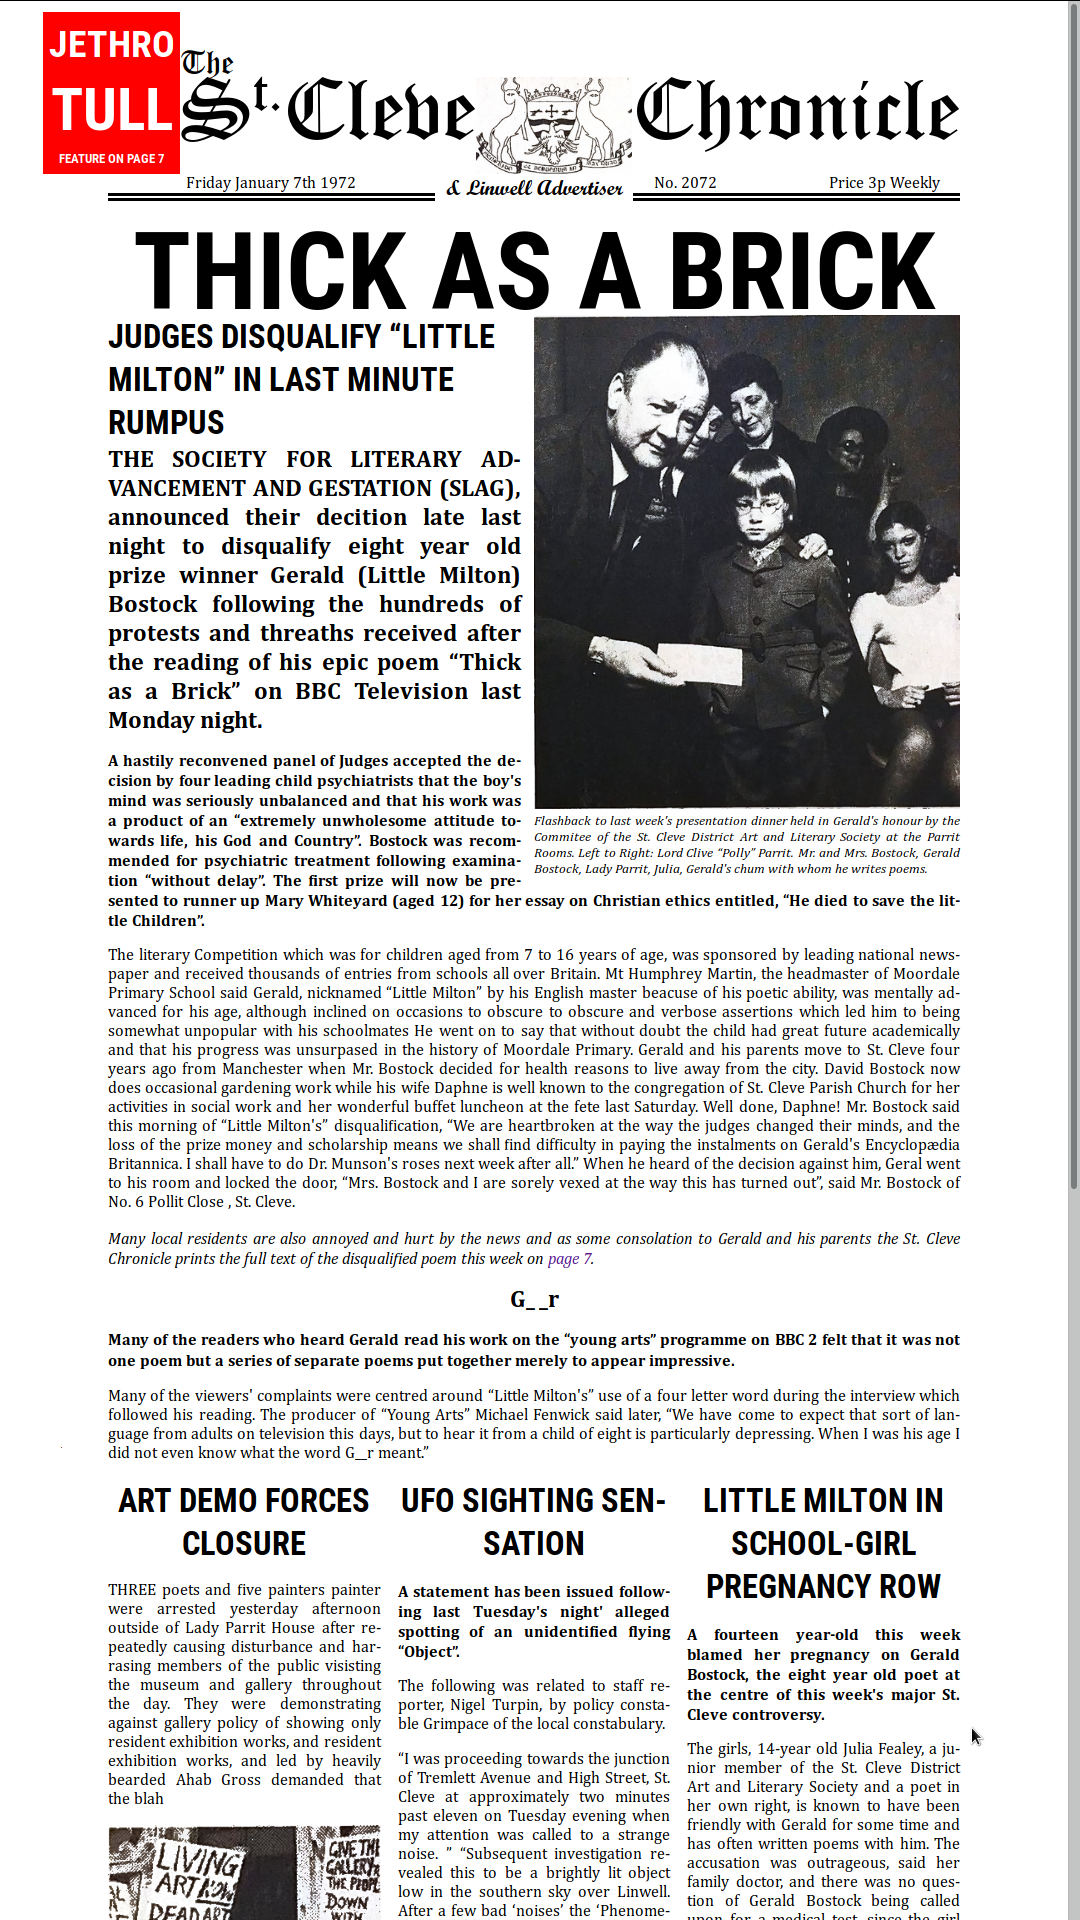
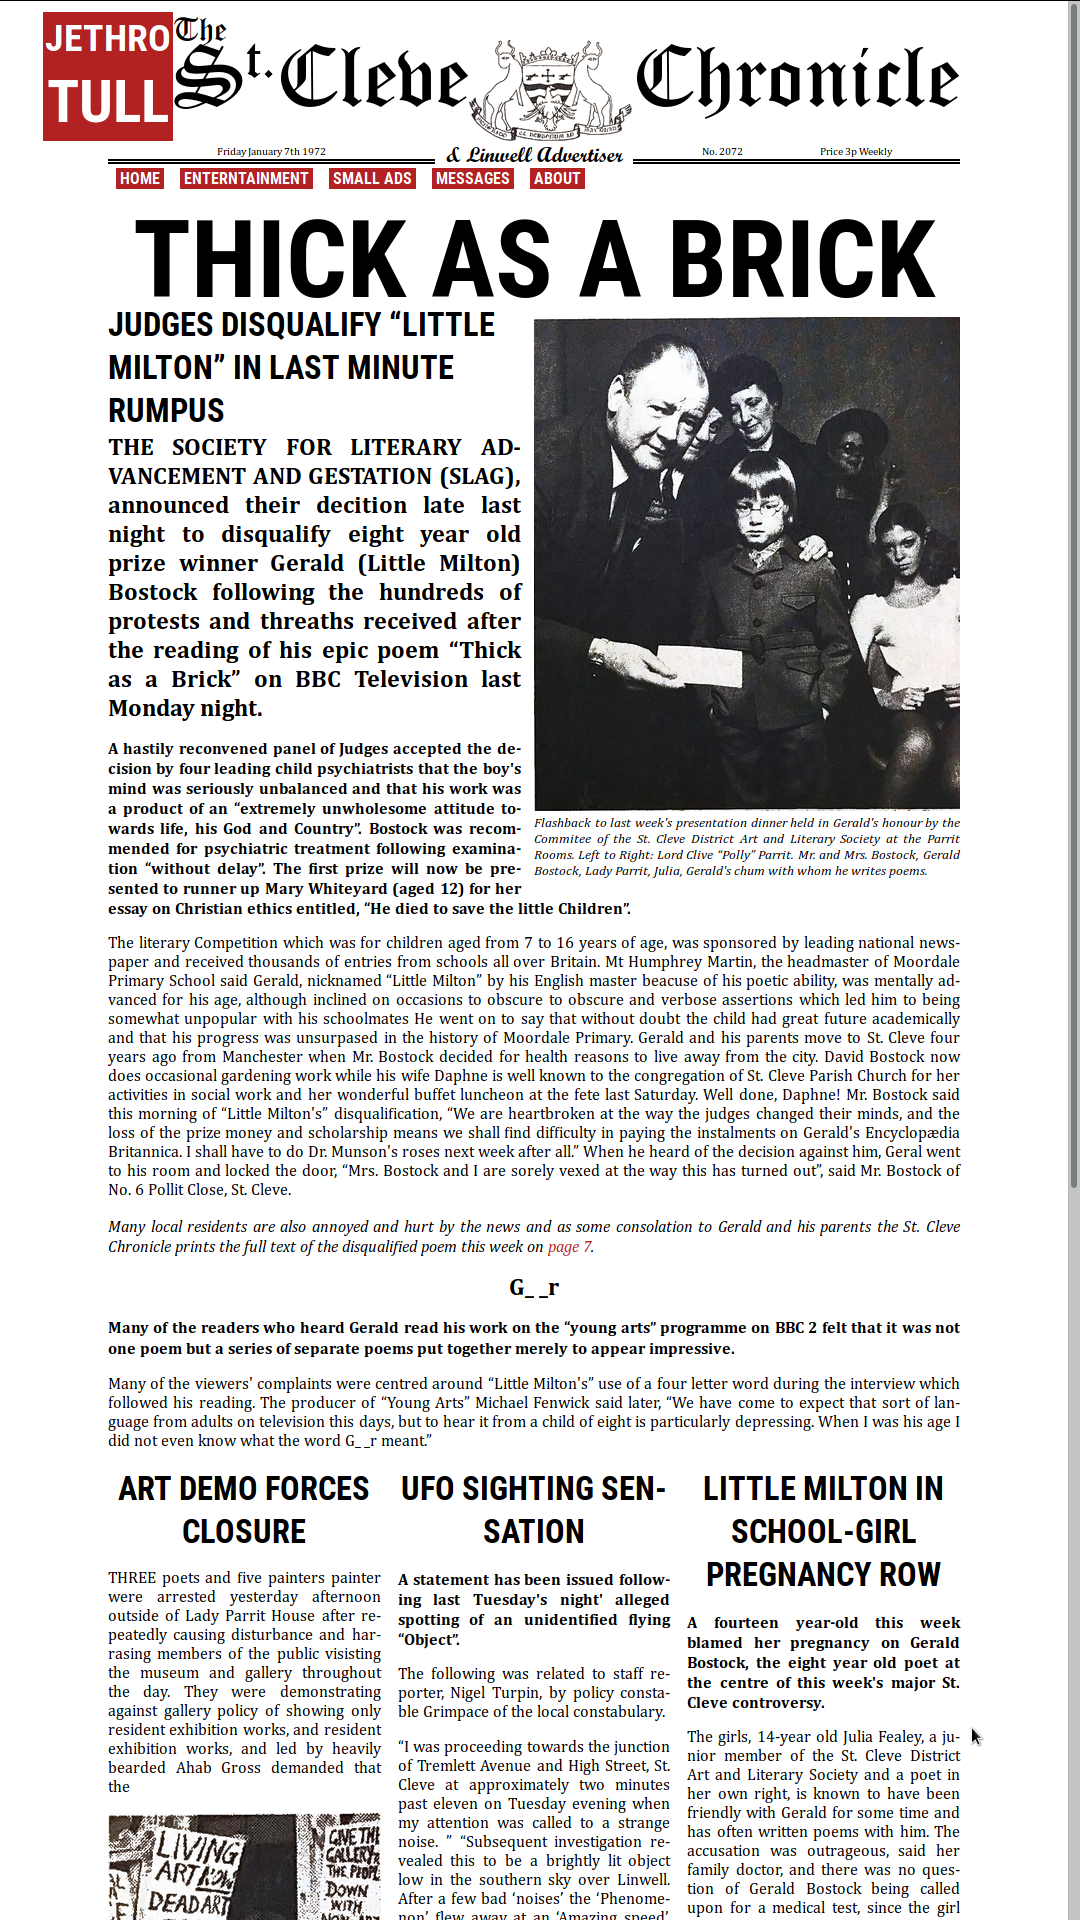
Adds a navigation bar completing the original excercise.

diff --git a/css/flex.css b/css/flex.css
@@ -1,9 +1,20 @@
 :root {
-    --link-color: red;
+    --link-color: firebrick;
     --link-hover-color: green;
     /* background colour of the scan I found by googling included as ../background.jpg */
     /* --background-color: #9a8c81; */
     --background-color: white;
+    --section-color: : #AA2323;
+    --headline-font-family: "Roboto Condensed", sans-serif;
+    --feature-size: 12vw;
+}
+
+html {
+    box-sizing: border-box;
+}
+
+*, *:before, *:after {
+    box-sizing: border-box;
 }
 
 body {
@@ -27,7 +38,7 @@ h1, h2, h3, h4 ,h5 ,h6 {
 
 h1 {
     font-size: 3vw;
-    font-family: "Roboto Condensed", sans-serif;
+    font-family: var(--headline-font-family);
     text-transform: uppercase;
 }
 
@@ -36,12 +47,33 @@ h1, h2 {
     text-align: center;
 }
 
+ul {
+    margin: 0;
+    /* Firefox sets the default left padfing to 40px; */
+    padding-left: 0; 
+    list-style-type: none;
+    display: flex;
+    justify-content: flex-start;
+    font-family: var(--headline-font-family);
+    text-transform: uppercase;
+}
+
+li {
+    margin: 0 .5em;
+    padding: 0 .25em;
+    background-color: var(--link-color);
+}
+
+li a {
+    color: var(--background-color);
+}
+
 a {
     text-decoration: none;
     color: var(--link-color);
 }
 
-a:not(.feature):hover {
+a:not(.feature,li):hover {
     color: var(--link-hover-color);
 }
 
@@ -50,17 +82,17 @@ a:not(.feature):hover {
     flex-direction: column;
     font-family: 'Roboto Condensed', sans-serif;
     font-weight: bold;
-    margin-left: -6vw;
+    margin-left: -8vw;
     padding: .5vw;
-    width: 14vw;
-    height: 14vw;
+    width: var(--feature-size);
+    height: var(--feature-size);
     color: var(--background-color);
     background-color: var(--link-color);
     justify-content: space-evenly;
     align-items: center;
 }
 
-.feature:hover {
+.feature:hover, li:hover {
     background-color: var(--link-hover-color);
 }
 
@@ -105,12 +137,13 @@ a:not(.feature):hover {
     text-align: center;
     font-size: 2vw;
     font-family: "Script MT Bold", cursive;
+    /* margin-bottom: .5em; */
 }
 
 .header--decorated::before,
 .header--decorated::after {
     flex: 1;
-    font-size: medium;
+    font-size: 1vw;
     font-family: serif;
     border-bottom: .5em double;
 }
@@ -138,6 +171,10 @@ a:not(.feature):hover {
     text-align: justify;
 }
 
+p {
+    margin: 0;
+}
+
 .lead {
     font-weight: bold;
 }
@@ -150,19 +187,16 @@ a:not(.feature):hover {
     display: flex;
     flex-flow: row wrap;
     text-align: justify;
-    /* align-content: space-between; */
     justify-content: space-between;
-    /* align-items: flex-start; */
 }
 
 .article-wrapper {
-    /* flex: 1 1 auto; */
-    /* margin: .5vw; */
     display: contents;
 }
 
 article {
     width: 32%;
+    margin-bottom: 2em;
 }
 
 .article-wrapper:nth-child(4n)::after {

diff --git a/index.html b/index.html
@@ -14,7 +14,6 @@
                 <a class="feature" href="">
                     <div>JETHRO</div>
                     <div>TULL</div>
-                    <div>FEATURE ON PAGE 7</div>
                 </a>
                 <div class="masthead__column">
                     <small class="masthead__smalltext">
@@ -38,6 +37,15 @@
             <div class="header--decorated">
                 & Linwell Advertiser
             </div>
+            <nav class="header__nav">
+                <ul>
+                    <li><a href="#">Home</a></li>
+                    <li><a href="#">Enterntainment</a></li>
+                    <li><a href="#">Small Ads</a></li>
+                    <li><a href="#">Messages</a></li>
+                    <li><a href="#">About</a></li>
+                </ul>
+            </nav>
         </header>
         <h1 class="main__front-news">THICK AS A BRICK</h1>
         <main class="main__articles">
